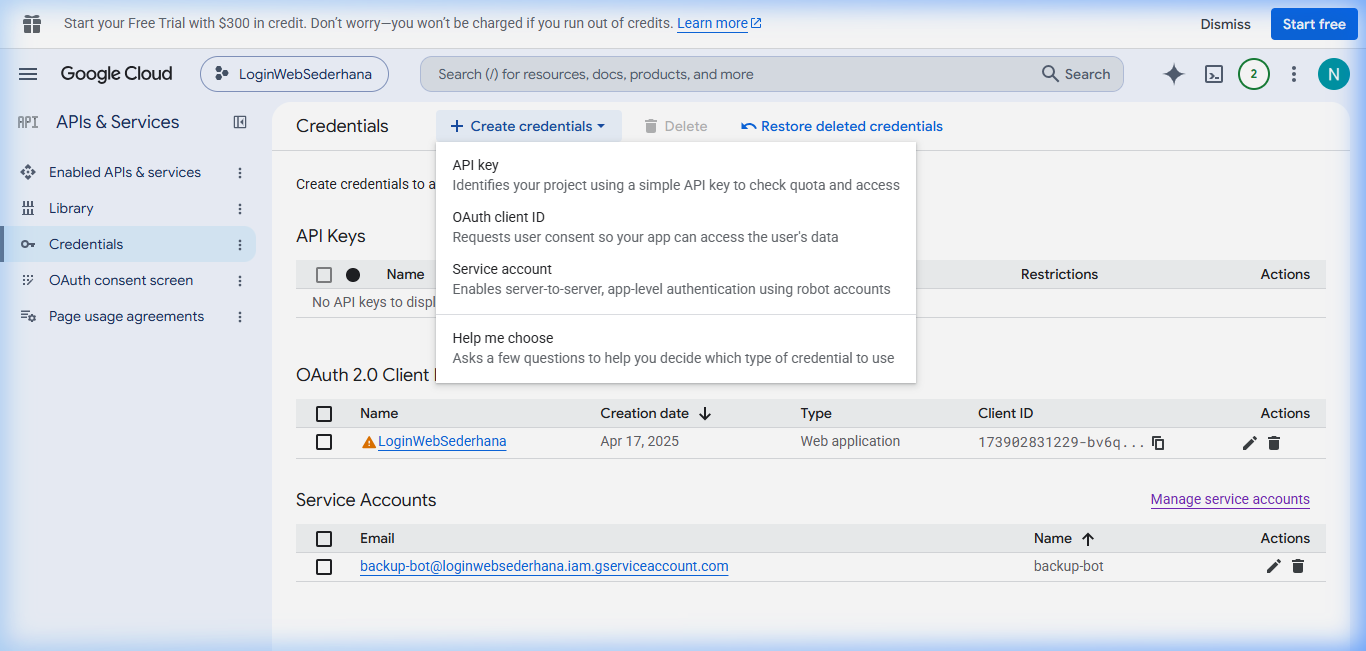
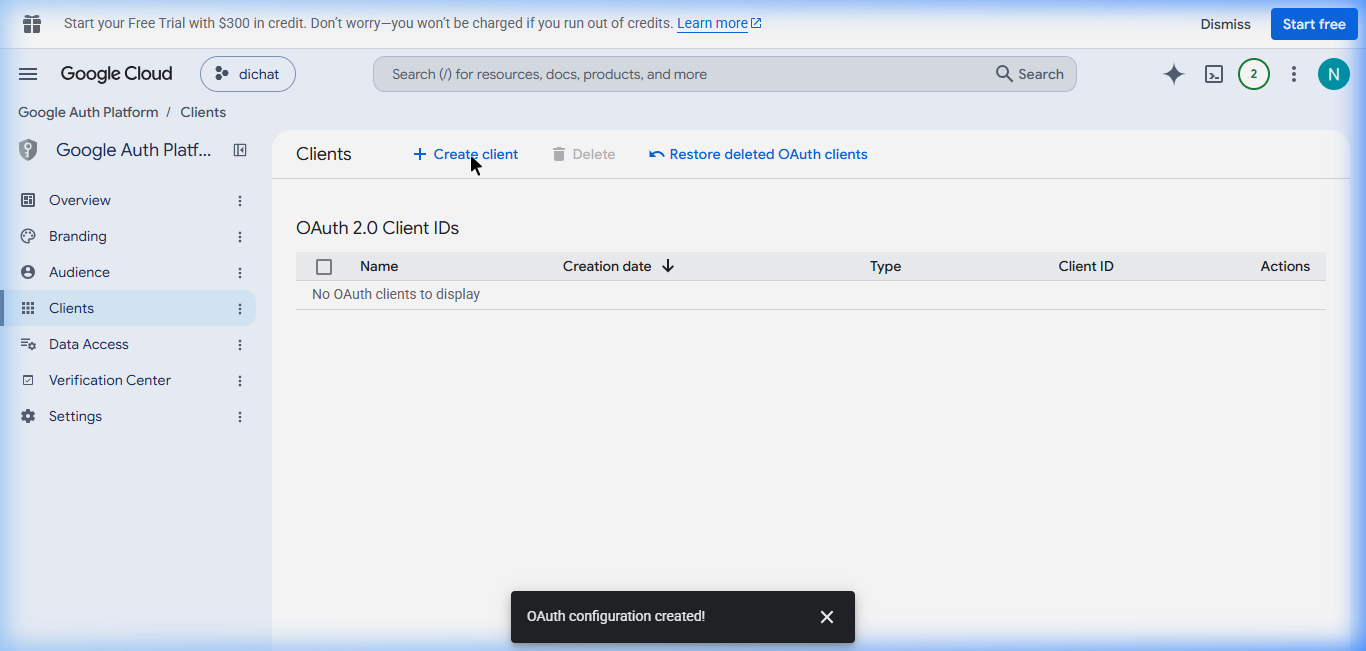
docs: add Google Drive OAuth2 setup tutorial and images

diff --git a/docs/setup-gdrive/tutorial-oauth2/tutorial-oauth2.md b/docs/setup-gdrive/tutorial-oauth2/tutorial-oauth2.md
@@ -5,15 +5,15 @@ Karena Service Account tidak memiliki kuota penyimpanan (0 bytes) untuk pengguna
 ## Langkah 1: Aktifkan API & Buat OAuth Consent Screen
 1. Buka [Google Cloud Console](https://console.cloud.google.com/).
 2. Pastikan Anda berada di project yang sama dengan sebelumnya (misal: `reminder-bot`).
-3. Cara tercepat menuju halamannya adalah dengan mengklik tautan jalan pintas ini: **[Buka Halaman OAuth Consent Screen](https://console.cloud.google.com/apis/credentials/consent)**. (Atau secara manual: cari menu navigasi kiri, pilih **APIs & Services**, lalu cari **OAuth consent screen**).
-<br>![Menu OAuth Consent](img/01-menu-oauth.png)
-4. Pilih **External** lalu klik **Create**.
-5. Isi formulir yang wajib saja:
+3. Cara tercepat menuju halamannya adalah dengan mengklik tautan jalan pintas ini: **[Buka Halaman OAuth Consent Screen](https://console.cloud.google.com/apis/credentials/consent)**. 
+4. Pilih tipe user **External** lalu klik **Create**.
+<br>![Pilih External](img/01-choose-external.png)
+5. Isi formulir yang wajib saja (seperti yang terlihat pada gambar di bawah):
    - **App name**: `Reminder Bot Backup`
    - **User support email**: (Pilih email Anda)
    - **Developer contact information**: (Ketik email Anda lagi)
-   - Klik **Save and Continue** sampai selesai (tidak perlu isi scopes/test users).
-   <br>![OAuth Consent Form](img/02-consent-form.png)
+   - Klik **Save and Continue** sampai selesai (lewati bagian *scopes/test users*).
+<br>![Isi Form OAuth](img/02-consent-form.png)
 
 ## Langkah 2: Buat OAuth Client ID
 1. Pindah ke menu **APIs & Services** > **Credentials**.
